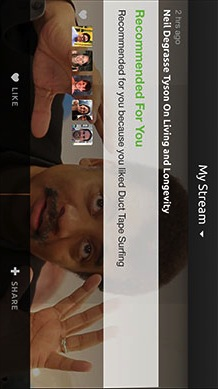
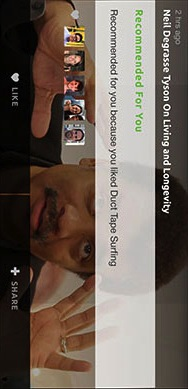
accounting for proper assets without headers

diff --git a/app/assets/stylesheets/partials/_landing-page__social.scss b/app/assets/stylesheets/partials/_landing-page__social.scss
@@ -24,8 +24,16 @@
   .iphone {
     margin: -75px auto 0;
   }
+  .iphone__header {
+    float: right;
+    margin: 81px 18px;
+  }
   .iphone__viewport {
     height: 389px;
     margin-top: 81px;
+    width: 188px;
+  }
+  .slide:hover {
+    margin-left: -188px;
   }
 }

diff --git a/app/assets/stylesheets/partials/_landing-page__iphone.scss b/app/assets/stylesheets/partials/_landing-page__iphone.scss
@@ -15,8 +15,9 @@
     float: right;
     margin-right: 40px;
     margin-top: 60px;
+    padding-top: 81px;
+    padding-left: 22px;
     position: relative;
-    padding-top: 57.8%;
   }
   .iphone--horizontal {
     margin-right: 33%;
